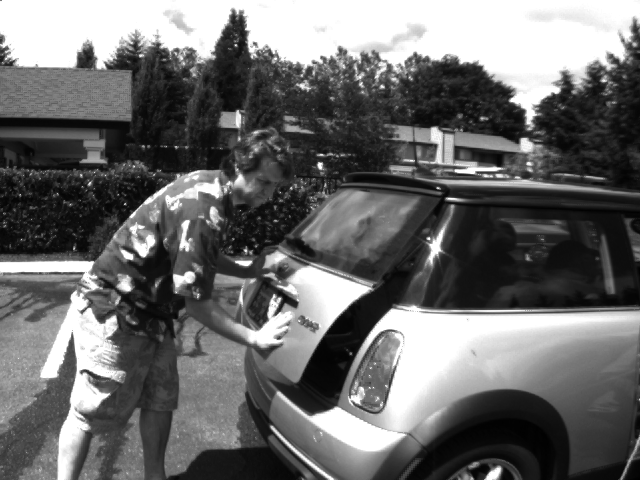
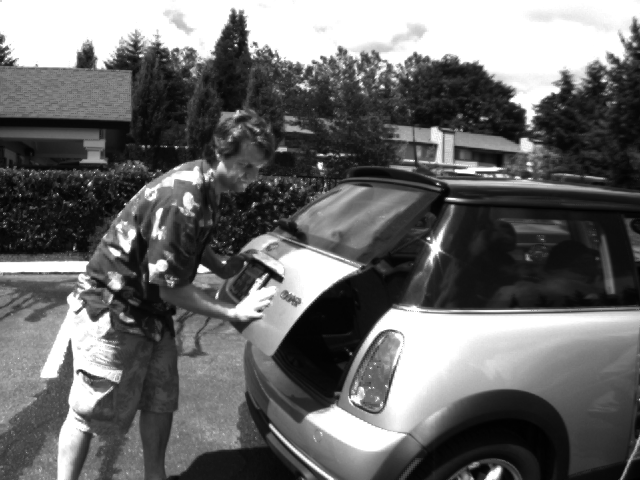
Part 5 calibration done

Changed region(s): [[0.0938, 0.2188, 0.7188, 0.9062], [0.1875, 0.8438, 0.2188, 0.9062], [0.3125, 0.9375, 0.3438, 0.9688]]

diff --git a/experiment.py b/experiment.py
@@ -409,10 +409,10 @@ def part_5a():
     cv2.imwrite(os.path.join(output_dir, "quiver.png"), u_v)
 
     I00 = shift_0
-    I02 = ps4.warp(shift_0, -0.2 * u, -0.2 * v, interpolation, border_mode)
-    I04 = ps4.warp(shift_0, -0.4 * u, -0.4 * v, interpolation, border_mode)
-    I06 = ps4.warp(shift_0, -0.6 * u, -0.6 * v, interpolation, border_mode)
-    I08 = ps4.warp(shift_0, -0.8 * u, -0.8 * v, interpolation, border_mode)
+    I02 = ps4.warp(shift_r10, 0.8 * u, 0.8 * v, interpolation, border_mode)
+    I04 = ps4.warp(shift_r10, 0.6 * u, 0.6 * v, interpolation, border_mode)
+    I06 = ps4.warp(shift_r10, 0.4 * u, 0.4 * v, interpolation, border_mode)
+    I08 = ps4.warp(shift_r10, 0.2 * u, 0.2 * v, interpolation, border_mode)
     I10 = shift_r10
 
     cv2.imwrite(os.path.join(output_dir, "I00.png"), ps4.normalize_and_scale(I00))
@@ -435,41 +435,52 @@ def part_5b():
 
     mc01 = cv2.imread(os.path.join(input_dir, 'MiniCooper', 'mc01.png'), 0) / 255.
     mc02 = cv2.imread(os.path.join(input_dir, 'MiniCooper', 'mc02.png'), 0) / 255.
+    mc03 = cv2.imread(os.path.join(input_dir, 'MiniCooper', 'mc03.png'), 0) / 255.
 
-    levels = 15
-    k_size = 45
+    levels = 10
+    k_size = 39
     k_type = 'gaussian'
-    sigma = 25
+    sigma =  55
     interpolation = cv2.INTER_CUBIC
     border_mode = cv2.BORDER_REFLECT101
 
-    blur_mc01 = np.copy(mc01)
-    blur_mc02 = np.copy(mc02)
-
-    u, v = ps4.hierarchical_lk(blur_mc01, blur_mc02, levels, k_size, k_type,
+    u, v = ps4.hierarchical_lk(mc01, mc02, levels, k_size, k_type,
                                    sigma, interpolation, border_mode)
 
-    # gaussian_sigma = 20
-    # gaussian_ksize = (55, 55)
-    # blur_mc01 = cv2.GaussianBlur(mc01, gaussian_ksize, gaussian_sigma)
-    # blur_mc02 = cv2.GaussianBlur(mc02, gaussian_ksize, gaussian_sigma)
+    u, v = ps4.hierarchical_lk(mc02, mc03, levels, k_size, k_type,
+                                   sigma, interpolation, border_mode)
 
-    u_v = quiver(u, v, scale=1, stride=10)
+    u_v = quiver(u, v, scale=2, stride=10)
     cv2.imwrite(os.path.join(output_dir, "quiver.png"), u_v)
 
-    I00 = mc01
-    I02 = ps4.warp(mc02, 0.8 * u, 0.8 * v, interpolation, border_mode)
-    I04 = ps4.warp(mc02, 0.6 * u, 0.6 * v, interpolation, border_mode)
-    I06 = ps4.warp(mc02, 0.4 * u, 0.4 * v, interpolation, border_mode)
-    I08 = ps4.warp(mc02, 0.2 * u, 0.2 * v, interpolation, border_mode)
-    I10 = mc02
+    I10 = mc01
+    I12 = ps4.warp(mc02, 1.1 * u, 1.1 * v, interpolation, border_mode)
+    I14 = ps4.warp(mc02, 0.8 * u, 0.8 * v, interpolation, border_mode)
+    I16 = ps4.warp(mc02, 0.6 * u, 0.6 * v, interpolation, border_mode)
+    I18 = ps4.warp(mc02, 0.3 * u, 0.3 * v, interpolation, border_mode)
+    I20 = mc02
+    I22 = ps4.warp(mc02, -0.2 * u, -0.2 * v, interpolation, border_mode)
+    I24 = ps4.warp(mc02, -0.6 * u, -0.6 * v, interpolation, border_mode)
+    I26 = ps4.warp(mc02, -1.0 * u, -1.0 * v, interpolation, border_mode)
+    I28 = ps4.warp(mc02, -1.4 * u, -1.4 * v, interpolation, border_mode)
+    I30 = mc03
+    # I22 = ps4.warp(mc03, 1.1 * u, 1.1 * v, interpolation, border_mode)
+    # I24 = ps4.warp(mc03, 0.8 * u, 0.8 * v, interpolation, border_mode)
+    # I26 = ps4.warp(mc03, 0.6 * u, 0.6 * v, interpolation, border_mode)
+    # I28 = ps4.warp(mc03, 0.3 * u, 0.3 * v, interpolation, border_mode)
+    # I30 = mc03
 
-    cv2.imwrite(os.path.join(output_dir, "I00.png"), ps4.normalize_and_scale(I00))
-    cv2.imwrite(os.path.join(output_dir, "I02.png"), ps4.normalize_and_scale(I02))
-    cv2.imwrite(os.path.join(output_dir, "I04.png"), ps4.normalize_and_scale(I04))
-    cv2.imwrite(os.path.join(output_dir, "I06.png"), ps4.normalize_and_scale(I06))
-    cv2.imwrite(os.path.join(output_dir, "I08.png"), ps4.normalize_and_scale(I08))
     cv2.imwrite(os.path.join(output_dir, "I10.png"), ps4.normalize_and_scale(I10))
+    cv2.imwrite(os.path.join(output_dir, "I12.png"), ps4.normalize_and_scale(I12))
+    cv2.imwrite(os.path.join(output_dir, "I14.png"), ps4.normalize_and_scale(I14))
+    cv2.imwrite(os.path.join(output_dir, "I16.png"), ps4.normalize_and_scale(I16))
+    cv2.imwrite(os.path.join(output_dir, "I18.png"), ps4.normalize_and_scale(I18))
+    cv2.imwrite(os.path.join(output_dir, "I20.png"), ps4.normalize_and_scale(I20))
+    cv2.imwrite(os.path.join(output_dir, "I22.png"), ps4.normalize_and_scale(I22))
+    cv2.imwrite(os.path.join(output_dir, "I24.png"), ps4.normalize_and_scale(I24))
+    cv2.imwrite(os.path.join(output_dir, "I26.png"), ps4.normalize_and_scale(I26))
+    cv2.imwrite(os.path.join(output_dir, "I28.png"), ps4.normalize_and_scale(I28))
+    cv2.imwrite(os.path.join(output_dir, "I30.png"), ps4.normalize_and_scale(I30))
 
 
 def part_6():

diff --git a/ps4.py b/ps4.py
@@ -269,7 +269,7 @@ def create_combined_img(img_list):
     dst = np.zeros((y_size, x_size))
     x_position = 0
     for img in img_list:
-        dst[0:img.shape[0], x_position:x_position+img.shape[1]] = img
+        dst[0:img.shape[0], x_position:x_position+img.shape[1]] = normalize_and_scale(img)
         x_position = x_position+img.shape[1]
 
     return dst
@@ -317,7 +317,11 @@ def laplacian_pyramid(g_pyr):
         list: Laplacian pyramid, with l_pyr[-1] = g_pyr[-1].
     """
     # Compute the difference at each l.
-    l_pyr = [g_pyr[i-1] - expand_image(g_pyr[i]) for i in range(1,len(g_pyr))]
+    l_pyr = []
+    for imga, imgb in zip(g_pyr[:-1], g_pyr[1:]):
+        expanded = expand_image(imgb)
+        diff = imga - expanded[:imga.shape[0], :imga.shape[1]]
+        l_pyr.append(diff)
 
     # Add the smallest gaussian at the very end
     l_pyr.append(g_pyr[-1])
